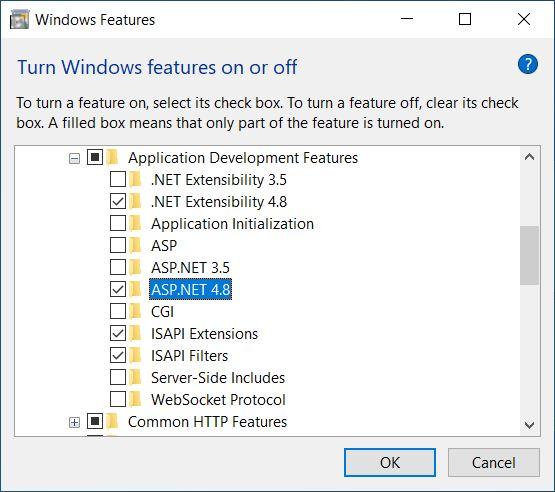
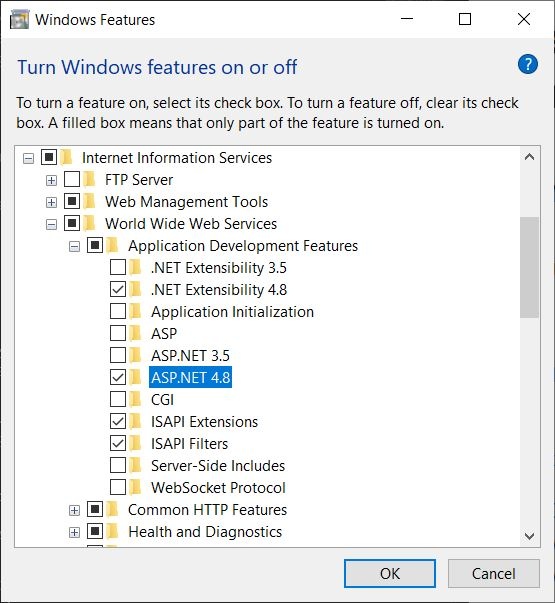
update picture IIS setup

diff --git a/docs/10-GettingStarted/20-SetupEnvironment/SetupEnvironmentDotNet.md b/docs/10-GettingStarted/20-SetupEnvironment/SetupEnvironmentDotNet.md
@@ -17,10 +17,13 @@ Install [Visual Studio 2019 16.8 or later](https://visualstudio.microsoft.com/fr
 
 Add those components during installation :
 - [Development Time IIS Support](https://devblogs.microsoft.com/aspnet/development-time-iis-support-for-asp-net-core-applications/)
-  When installing IIS, make sur that "WWW Services -> Security -> Windows Authentication" is ckecked and restart IIS
+  When installing IIS, make sur that 
+  * "WWW Services -> Security -> Windows Authentication" is ckecked 
   ![IIS Windows Authentication](../../Images/IISWindowsAuthent.jpg)
-  And "WWW Services -> App Dev Features -> ASP.Net 4.x" is cecked
+  * "WWW  -> App Dev Features -> ASP.Net 4.x" is h
   ![IIS ASP Net](../../Images/IISASPNET.JPG)
+  * And restart IIS
+  
   If Visual Studio 2019 is already installed, you can add those components by launching the VS Installer.
 
 **Configuration :**
